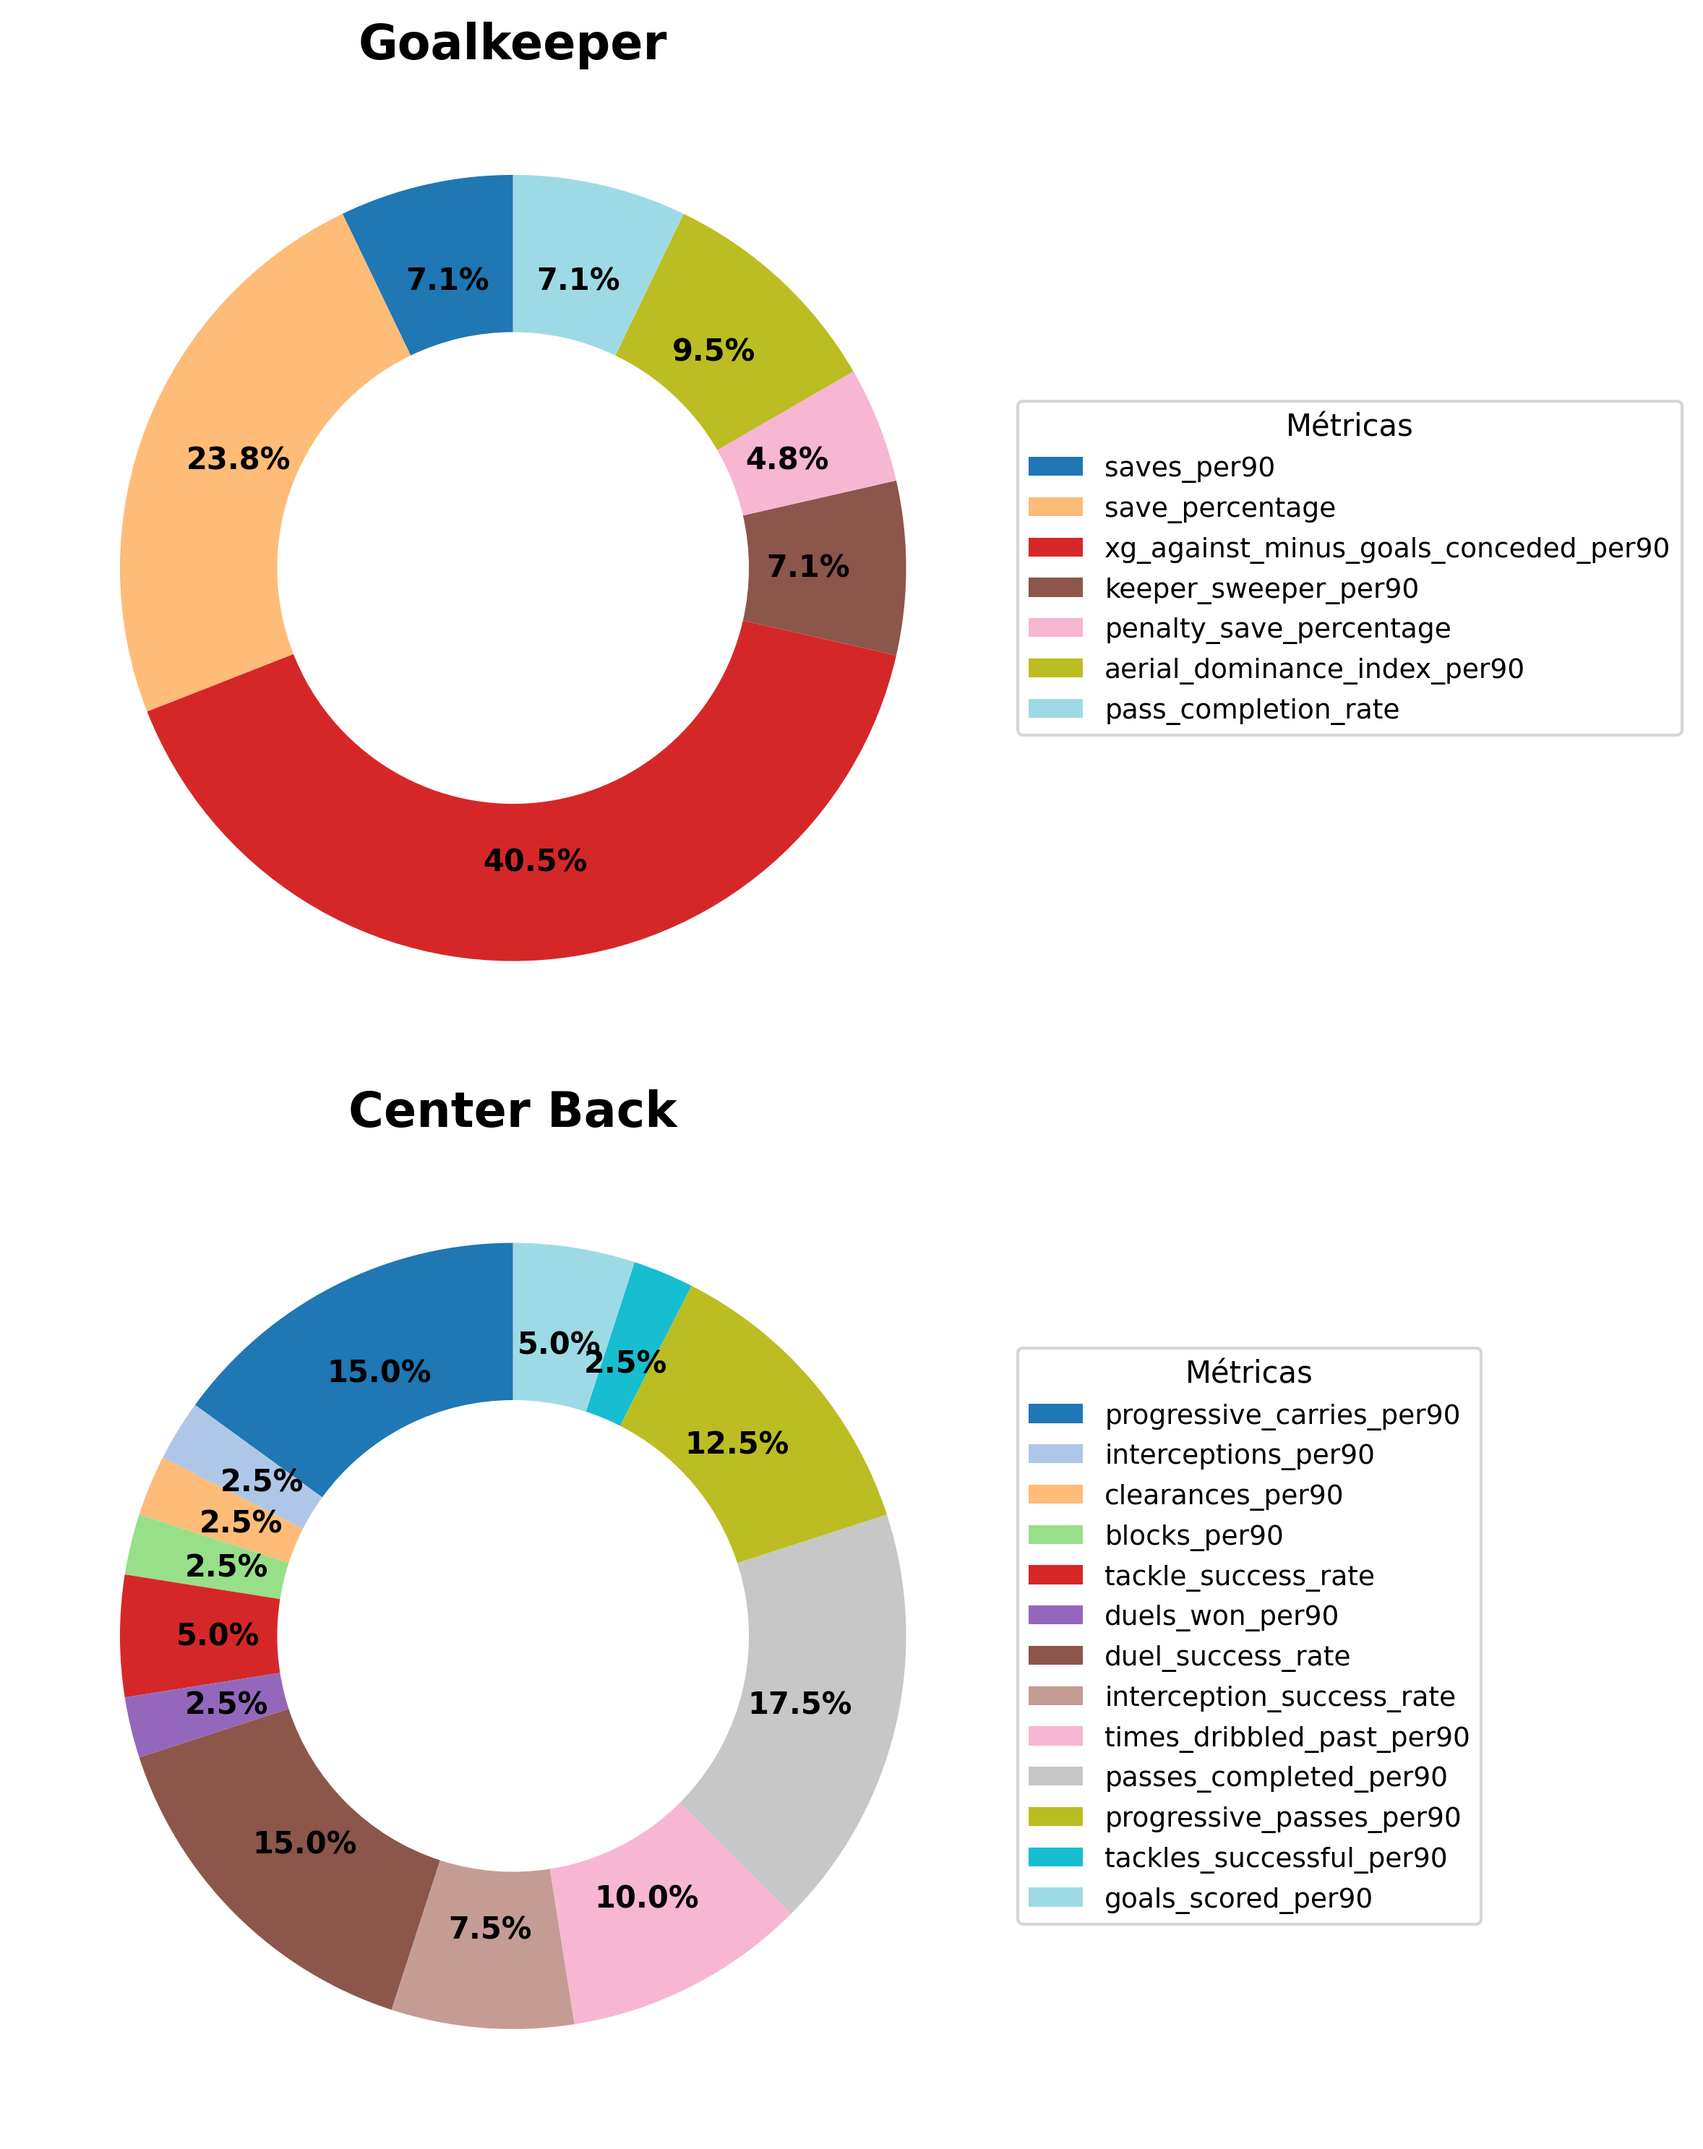
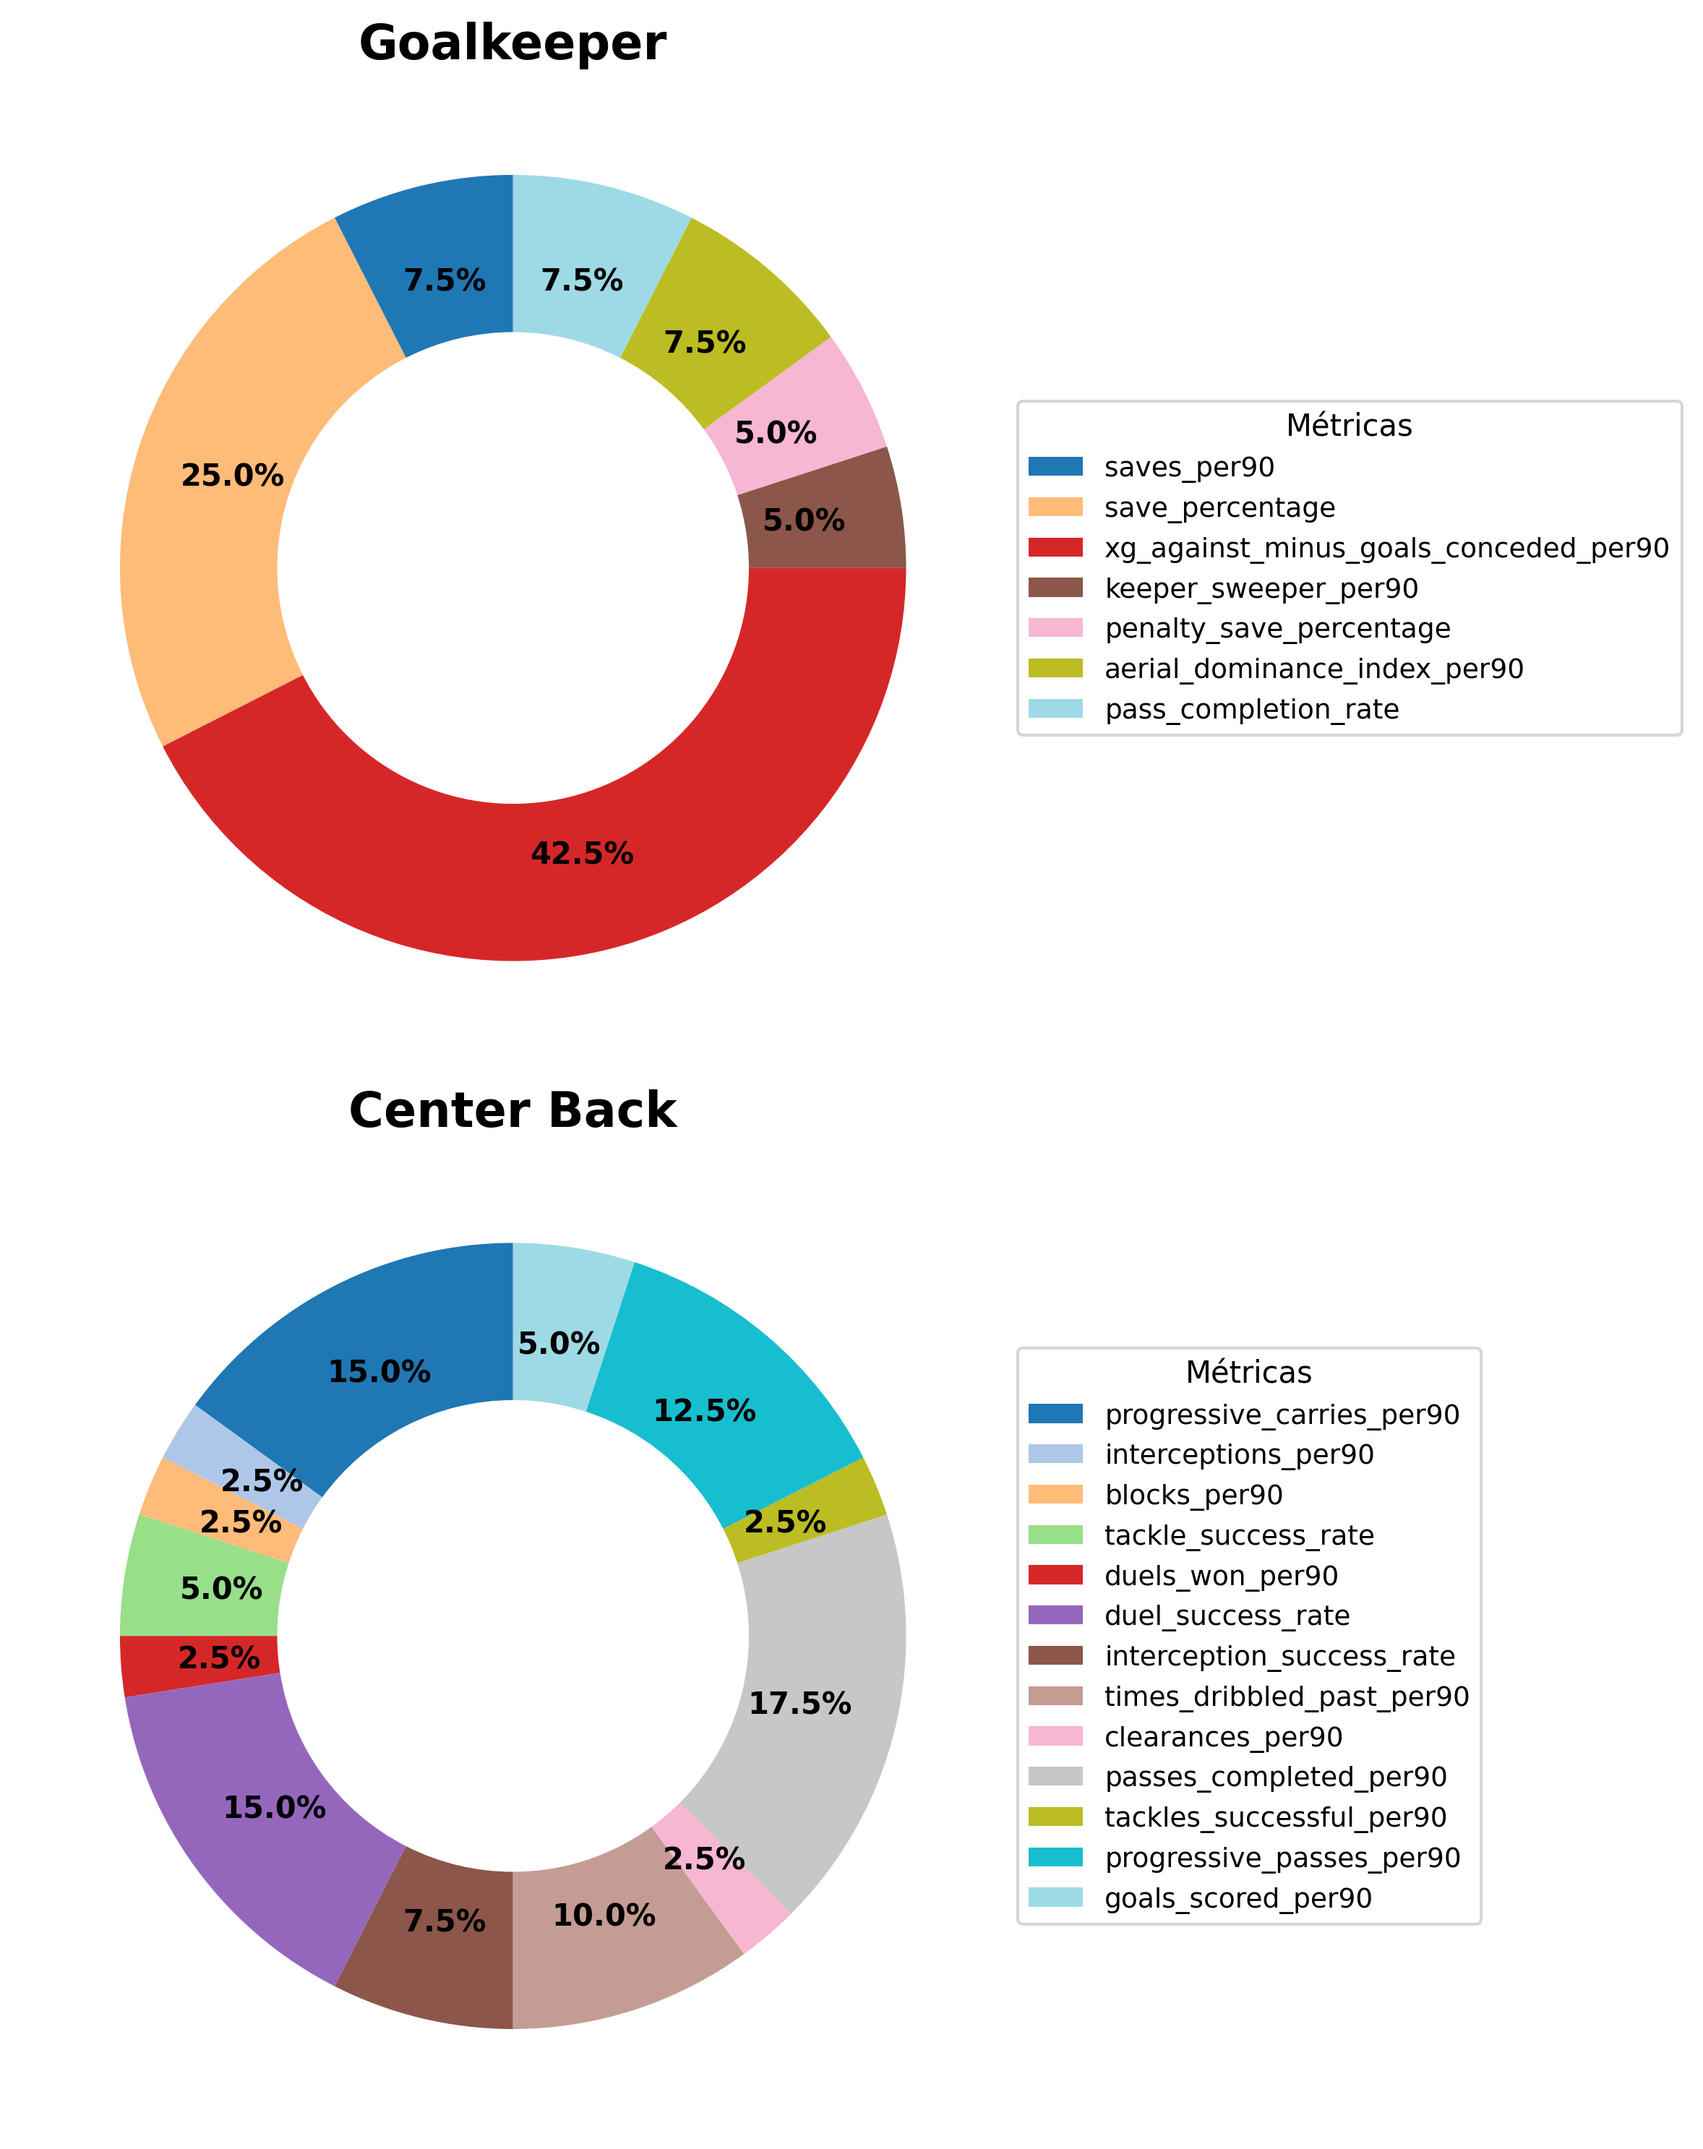
commit

diff --git a/funciones_analisis/normalizacion.py b/funciones_analisis/normalizacion.py
@@ -110,9 +110,9 @@ def calcular_rating(df):
             'saves_per90': 0.075,
             'save_percentage': 0.25,
             'xg_against_minus_goals_conceded_per90': 0.425,
-            'keeper_sweeper_per90': 0.075,
+            'keeper_sweeper_per90': 0.05,
             'penalty_save_percentage': 0.05,
-            'aerial_dominance_index_per90': 0.1,
+            'aerial_dominance_index_per90': 0.075,
             'pass_completion_rate': 0.075
         },
         'center_back': {

diff --git a/agente_sql.py b/agente_sql.py
@@ -1,11 +1,9 @@
-from langchain_experimental.sql import SQLDatabaseChain
 from langchain.agents.agent_toolkits import create_sql_agent
 from langchain.sql_database import SQLDatabase
 from sqlalchemy import create_engine
 from funciones_analisis.funcionalidades_agente import *
 import streamlit as st
 from langchain.chat_models import ChatOpenAI
-from langchain_experimental.agents import create_csv_agent
 import os
 from dotenv import load_dotenv
 from mplsoccer import PyPizza
